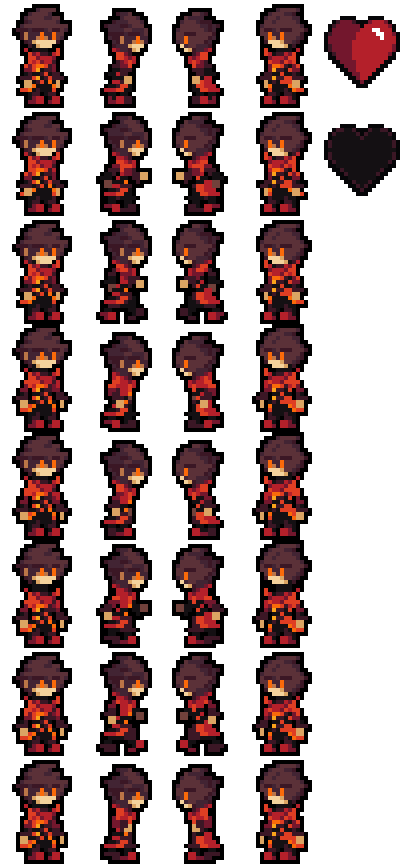
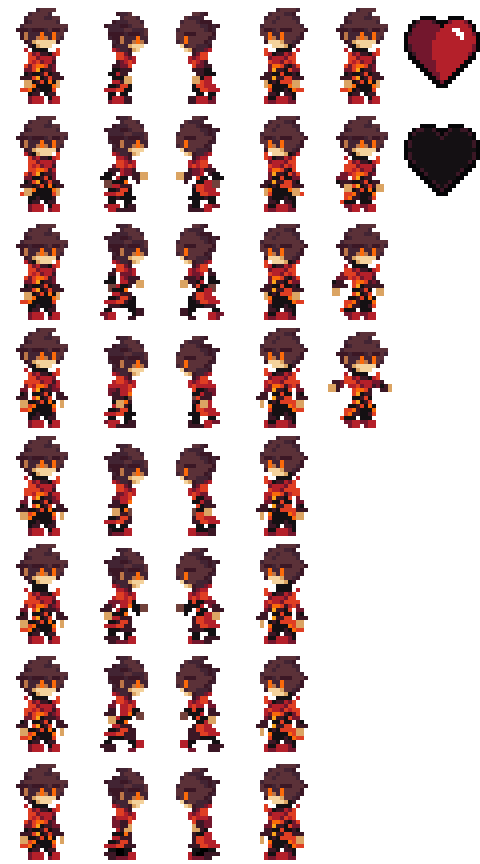
прыгать

diff --git a/game.py b/game.py
@@ -14,6 +14,8 @@ class Hero(pygame.sprite.Sprite):
         self.cur_frame = 0
         self.image = self.frames[self.cur_frame]
         self.rect = self.rect.move(x, y)
+        self.xs = 4
+        self.ys = -16
 
     def cut_sheet(self, sprites, koef, rows, kakaya_animacia):
         self.rect = pygame.Rect(0, 0, 80 * koef,
@@ -27,25 +29,32 @@ class Hero(pygame.sprite.Sprite):
     def update(self):
         self.cur_frame = (self.cur_frame + 1) % len(self.frames)
         self.image = self.frames[self.cur_frame]
+        global yspeed, jumping
+        yspeed -= (self.ys // 20)
+        self.rect = self.rect.move(0, yspeed * k ** fullscreen)
+        if pygame.sprite.spritecollide(self, toches, False):
+            self.rect = self.rect.move(0, -yspeed * k ** fullscreen)
+            yspeed = 0
+            self.ys = -16
+            jumping = False
 
     def change_act(self, act, koords, koef):
         global fullscreen
+        hc = koords[0], koords[1]
         if act == 'sr':
-            hc = koords[0], koords[1]
             characters.empty()
             ho = Hero(wai, 8, *hc, wai.get_width(), wai.get_height(), koef, 0)
         elif act == 'sl':
-            hc = koords[0], koords[1]
             characters.empty()
             ho = Hero(wai, 8, *hc, wai.get_width(), wai.get_height(), koef, 3)
         elif act == 'r':
-            hc = koords[0], koords[1]
             characters.empty()
             ho = Hero(wai, 8, *hc, wai.get_width(), wai.get_height(), koef, 1)
         elif act == 'l':
-            hc = koords[0], koords[1]
             characters.empty()
             ho = Hero(wai, 8, *hc, wai.get_width(), wai.get_height(), koef, 2)
+        elif act == 'jumpr':
+            ho = Hero(wai, 8, *hc, wai.get_width(), wai.get_height(), koef, 4)
         else:
             ho = None
         return ho
@@ -64,10 +73,6 @@ class Hero(pygame.sprite.Sprite):
     def get_size(self):
         return self.rect[2:4]
 
-    def jump(self):
-        global jumping
-        jumping = False
-
 
 class Background(pygame.sprite.Sprite):
     image_bg = load_image(bg1)
@@ -83,7 +88,6 @@ class Background(pygame.sprite.Sprite):
         bgroup.empty()
         newground = Background(w, h, left, top, koef)
         return newground
-
 
 
 # class Camera:
@@ -105,10 +109,9 @@ class Background(pygame.sprite.Sprite):
 #     def get_apple(self):
 #         return self.dx, self.dy
 #
-
 characters = pygame.sprite.Group()
 wai = load_image(wai)
-hero = Hero(wai, 8, 1, height - 172, *wai.get_size(), 1, 0)
+hero = Hero(wai, 8, 1 + 256, height - 172 - 128 - 128, *wai.get_size(), 1, 0)
 
 bgroup = pygame.sprite.Group()
 bg = Background(*size, 0, 0, k)
@@ -128,7 +131,7 @@ if __name__ == '__main__':
     jumping = False
     fps = 60
     xspeed = 4
-    yspeed = 2
+    yspeed = 0
     while running:
         for event in pygame.event.get():
             if event.type == pygame.QUIT:
@@ -137,6 +140,9 @@ if __name__ == '__main__':
                 if event.key == pygame.K_d:
                     if not jumping:
                         hero = hero.change_act('r', hero.get_coords(), k ** fullscreen)
+                    else:
+                        hero = hero.change_act('jumpr', hero.get_coords(), k ** fullscreen)
+                        pass
                     lookingright = 1
                     runright = True
                     runleft = False
@@ -147,17 +153,24 @@ if __name__ == '__main__':
                 elif event.key == pygame.K_a:
                     if not jumping:
                         hero = hero.change_act('l', hero.get_coords(), k ** fullscreen)
+                    else:
+                        # hero = hero.change_act('jumpl', hero.get_coords(), k ** fullscreen)
+                        pass
                     lookingright = 0
                     runleft = True
                     runright = False
                 elif event.key == pygame.K_SPACE:
-                    # hero = hero.change_act('jump', hero.get_coords(), k ** fullscreen)
-                    jumping = True
-                    if lookingright:
-                        pass
-                    else:
-                        pass
-                    hero.jump()
+                    if not jumping:
+                        # hero = hero.change_act('jump', hero.get_coords(), k ** fullscreen)
+                        jumping = True
+                        yspeed = -17
+                        hero.ys = -8
+                        if lookingright:
+                            hero = hero.change_act('jumpr', hero.get_coords(), k ** fullscreen)
+                            pass
+                        else:
+                            # hero = hero.change_act('jumpl', hero.get_coords(), k ** fullscreen)
+                            pass
                 elif event.key == pygame.K_F11:
                     if fullscreen:
                         screen = pygame.display.set_mode(size)
@@ -182,7 +195,7 @@ if __name__ == '__main__':
                     sitting = False
                 elif event.key == pygame.K_a:
                     runleft = False
-                if not (runright or runleft or sitting or shooting or lookingup):
+                if not (runright or runleft or sitting or shooting or lookingup or jumping):
                     if lookingright:
                         hero = hero.change_act('sr', hero.get_coords(), k ** fullscreen)
                     else:
@@ -191,15 +204,15 @@ if __name__ == '__main__':
             if runright:
                 hero.move(xspeed * k ** fullscreen, 0)
             if runleft:
-                hero.move((-1) * xspeed * k ** fullscreen, 0)
+                hero.move(-xspeed * k ** fullscreen, 0)
         else:
             if sitting:
-                hero.move(0, yspeed * k ** fullscreen)
+                hero.move(0, 0)
             elif lookingup:
-                hero.move(0, -yspeed * k ** fullscreen)
-        hero.update()
+                hero.move(0, 0)
         bgroup.draw(screen)
         board.render(screen)
+        hero.update()
         characters.draw(screen)
         clock.tick(fps)
         pygame.display.flip()
